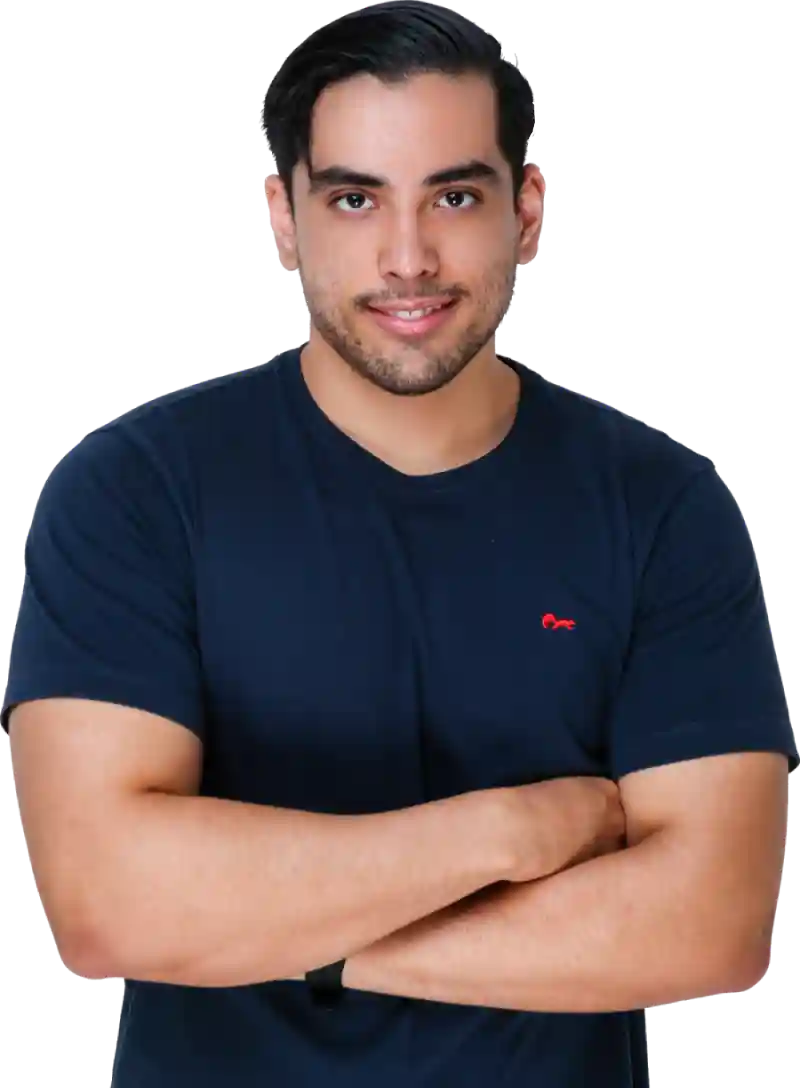
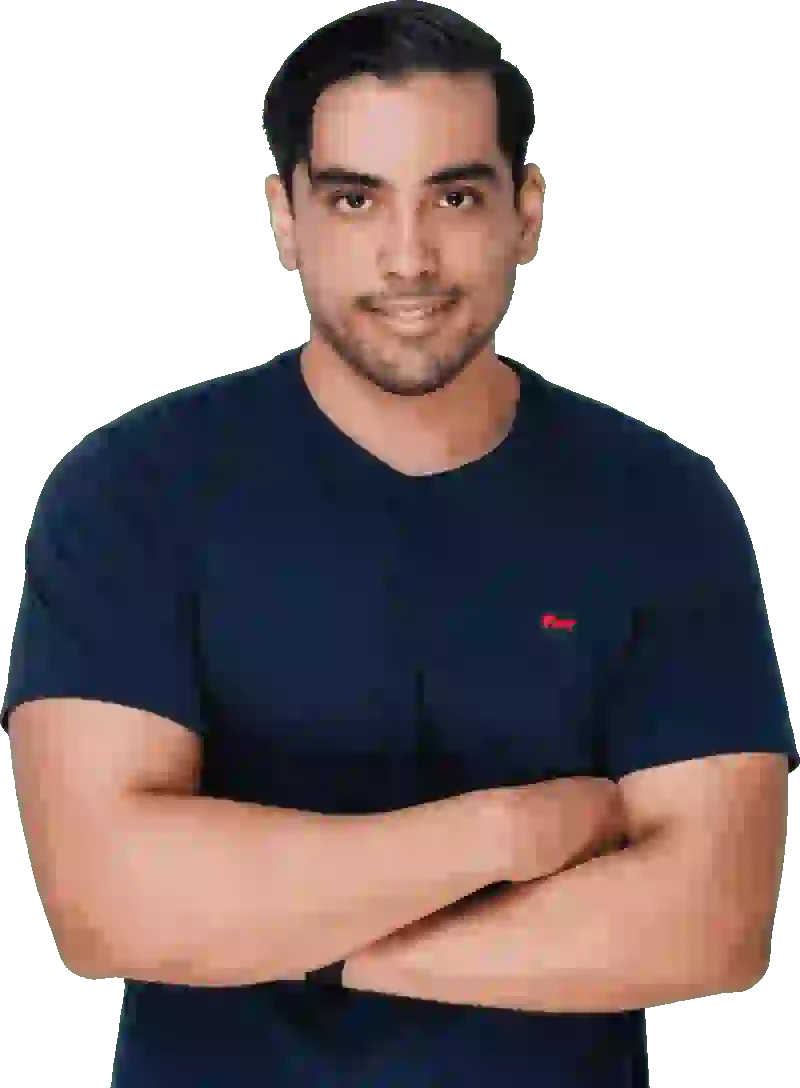
:sparkles: FEAT: Change blured image
:sparkles: FEAT: UI fix

diff --git a/src/views/home/Hero.tsx b/src/views/home/Hero.tsx
@@ -2,36 +2,39 @@ import { useState } from "react";
 import ContactButton from "./components/ContactButton";
 import SocialIcons from "../../components/SocialIcons";
 import danielImage from "../../assets/DanielMartinez.webp";
-import danielImageBlur from "../../assets/DanielMartinezBlur3.webp";
+import danielImageBlur from "../../assets/DanielMartinezBlur.webp";
 
 export default function Hero() {
+  const [blurLoaded, setBlurLoaded] = useState(false);
   const [imageLoaded, setImageLoaded] = useState(false);
 
   return (
-    <section className="flex items-start md:items-center pt-8 md:pt-0">
+    <section className="flex items-start md:items-center md:pt-0">
       <div className="w-full">
         {/* Mobile & Desktop Layout */}
         <div className="flex flex-col md:grid md:grid-cols-2 md:gap-16 md:items-center">
           {/* Text Content */}
-          <div className="space-y-2 md:space-y-6 mb-0 md:mb-0">
-            {/* Name with yellow underline */}
-            <div>
-              <h1 className="text-5xl md:text-6xl font-bold text-fg-primary leading-[1.1]">
-                Daniel
-                <br className="md:hidden" />
-                <span className="hidden md:inline"> </span>
-                Martinez.
-              </h1>
-              <div className="w-20 md:w-24 h-1 bg-primary"></div>
-            </div>
+          <div className="mb-0 md:mb-0">
+            <div className="space-y-2 md:space-y-6">
+              {/* Name with yellow underline */}
+              <div>
+                <h1 className="text-5xl md:text-6xl font-bold text-fg-primary leading-[1.1]">
+                  Daniel
+                  <br className="md:hidden" />
+                  <span className="hidden md:inline"> </span>
+                  Martinez.
+                </h1>
+                <div className="w-20 md:w-24 h-1 bg-primary"></div>
+              </div>
 
-            {/* Description */}
-            <p className="text-base md:text-lg text-fg-secondary leading-relaxed">
-              Hi! I'm a Mid-level Software Engineer, specialized in full stack
-              development with Node.js and Flutter. I bring ideas to life
-              through clean and scalable solutions.
-            </p>
-            <ContactButton />
+              {/* Description */}
+              <p className="text-base md:text-lg text-fg-secondary leading-relaxed">
+                Hi! I'm a Mid-level Software Engineer, specialized in full stack
+                development with Node.js and Flutter. I bring ideas to life
+                through clean and scalable solutions.
+              </p>
+            </div>
+            <ContactButton className="mt-4 md:mt-1" />
           </div>
 
           {/* Image Container */}
@@ -46,6 +49,7 @@ export default function Hero() {
                   imageLoaded ? "opacity-0" : "opacity-100"
                 }`}
                 aria-hidden="true"
+                onLoad={() => setBlurLoaded(true)}
               />
               {/* High quality image - absolute positioned, fades in */}
               <img
@@ -57,11 +61,11 @@ export default function Hero() {
                 onLoad={() => setImageLoaded(true)}
               />
               {/* Social Icons - Positioned absolutely on the left */}
-              {imageLoaded && (
+              {blurLoaded && (
                 <SocialIcons
                   direction="vertical"
                   size="sm"
-                  className="absolute -left-12 bottom-0 flex"
+                  className="absolute -left-12 bottom-5 flex"
                 />
               )}
             </div>

diff --git a/src/index.css b/src/index.css
@@ -18,12 +18,36 @@
 }
 
 /* Global base styles */
-html {
-  font-size: var(--font-size-base);
+html,
+body {
+  font-size: 16px;
+  background-color: var(--color-bg-primary);
 }
 
 @media (min-width: 768px) {
-  html {
-    font-size: var(--font-size-lg);
+  html,
+  body {
+    font-size: 18px;
+  }
+}
+
+@media (min-width: 1024px) {
+  html,
+  body {
+    font-size: 19px;
+  }
+}
+
+@media (min-width: 1280px) {
+  html,
+  body {
+    font-size: 20px;
+  }
+}
+
+@media (min-width: 1536px) {
+  html,
+  body {
+    font-size: 22px;
   }
 }

diff --git a/src/components/Header.tsx b/src/components/Header.tsx
@@ -19,7 +19,7 @@ export default function Header({ className = "" }: HeaderProps) {
         </a>
 
         {/* Right side: I18n + Navigation */}
-        <div className="flex items-center">
+        <div className="flex items-center md:gap-3">
           {/* I18n Switch Button */}
           <I18nSwitchButton size="sm" className="" />
 

diff --git a/src/App.tsx b/src/App.tsx
@@ -3,7 +3,7 @@ import HomePage from "./pages/Home";
 
 function App() {
   return (
-    <div className="min-h-screen bg-bg-primary px-6 md:px-[170px]">
+    <div className="min-h-screen bg-bg-primary px-6 md:px-[170px] max-w-[1900px] mx-auto">
       <Header />
       <HomePage />
     </div>
